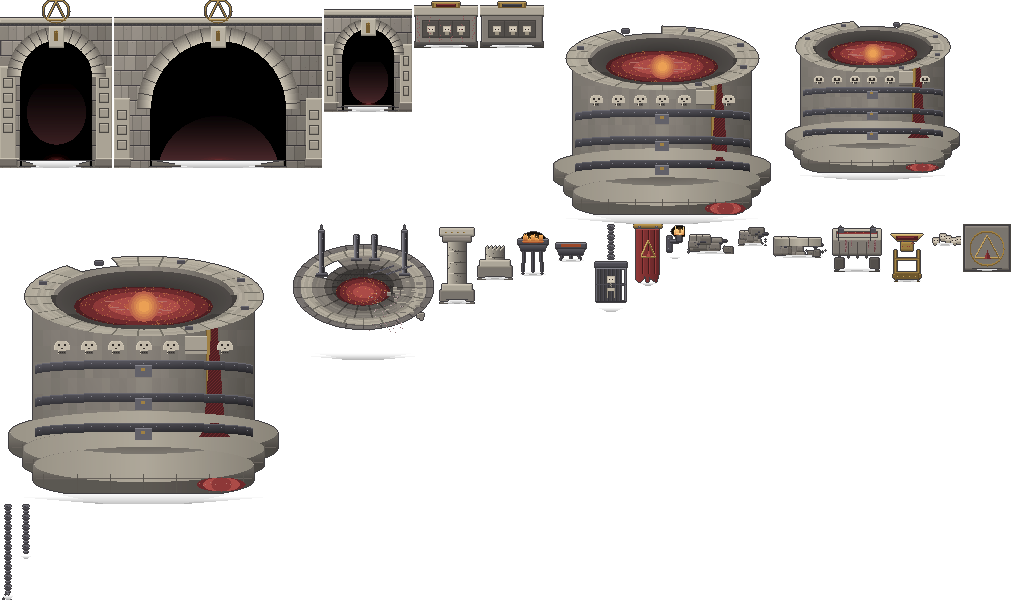
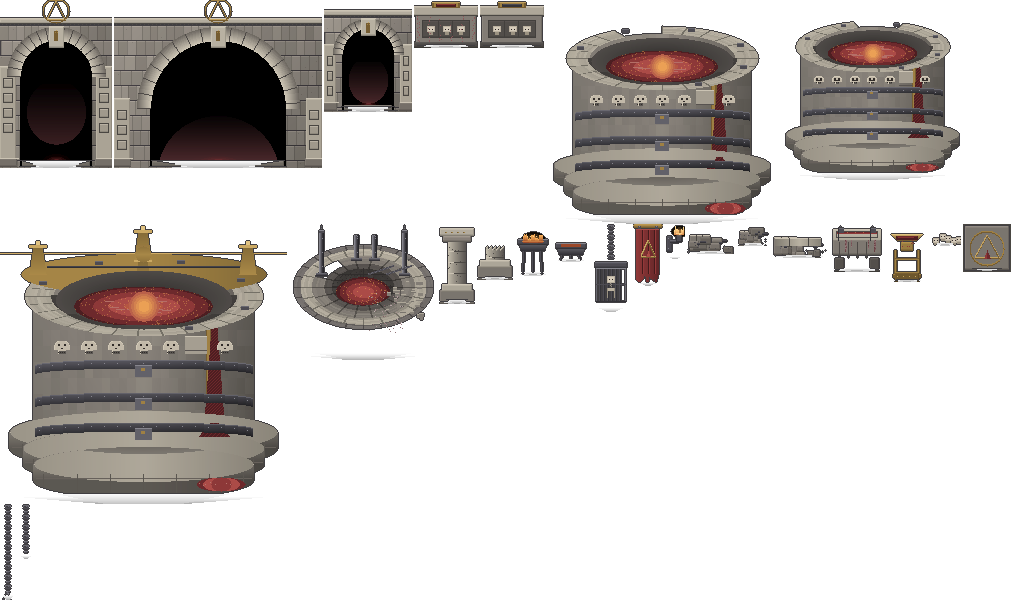
feat(level5): the court's basin gets a crest, so it is the level's monument
The court's basin, the forecourt's and the arena's were the same drawing at
different scales, and the review read them as three copies of one prop rather
than as one order with three vessels. Worse, the court's is the level's name and
it had to be the thing the eye finds from the spawn station, which is a long way
off and behind a colonnade: a vessel at that distance is a blob.

The grand vessel now carries a bronze crest: a band resting on the rim's own
ellipse, four tapered horns on the cardinals with flared tops and finials, and a
chain between the two side horns carrying the order's disc. A vessel with four
uprights and a chain between them is a silhouette, and a silhouette reads at
distance; the two lesser basins keep the plain rim.

Drawn in the space the overhang leaves empty, so nothing in the vessel's own
construction is covered. Nothing else in the kit moved: 27 tiles, 25 props, the
small basin byte-identical.

Changed region(s): [[0.0, 0.36, 0.2754, 0.48]]

diff --git a/tools/level5/art_crucible.py b/tools/level5/art_crucible.py
@@ -864,7 +864,8 @@ def _ellipse_span(cx: float, cy: float, rx: float, ry: float, y: int) -> tuple:
     return cx - half, cx + half
 
 
-def prop_crucible(w: int = 232, h: int = 224, scale: float = 1.0) -> Image.Image:
+def prop_crucible(w: int = 232, h: int = 224, scale: float = 1.0,
+                  crest: bool = False) -> Image.Image:
     """The Blood Court's crucible: a raised cauldron on a stepped plinth.
 
     The first version was drawn from above - concentric rings of cut stone round an
@@ -1107,6 +1108,60 @@ def prop_crucible(w: int = 232, h: int = 224, scale: float = 1.0) -> Image.Image
             d = math.hypot(dx, dy)
             if 0.70 < d <= 0.78:
                 px(img, x, y, shade(WARM_D, 0.70 - 0.2 * dy))
+
+    # --- the crest: four bronze horns and a hanging chain ------------------
+    # The grand basin is the level's monument and it has to be the thing the eye
+    # finds from the spawn station, which is a long way off and behind a
+    # colonnade. A vessel at that distance is a blob; a vessel with four upright
+    # horns and a chain between them is a silhouette, and a silhouette is what
+    # reads. It is also what separates the court's basin from the forecourt's and
+    # the arena's, which were the same drawing at a smaller scale and were read as
+    # three copies of one prop rather than as one order with three vessels.
+    #
+    # Drawn above the rim, in the space the overhang leaves empty, so nothing in the
+    # vessel's own construction is covered: the horns rise from a bronze band that
+    # sits just outside the rim's own ellipse.
+    if crest:
+        band_y = rim_y - RY * 0.55
+        band_rx, band_ry = RX * 1.03, RY * 0.52
+        for y in range(int(band_y - band_ry), int(band_y + band_ry) + 1):
+            x0, x1 = span(cx, band_y, band_rx, band_ry, y)
+            if x1 <= x0:
+                continue
+            for x in range(int(x0), int(x1) + 1):
+                dx = (x - cx) / max(1.0, band_rx)
+                if math.hypot(dx, (y - band_y) / max(1.0, band_ry)) <= 1.0:
+                    px(img, x, y, shade(BRASS_M, 1.06 - 0.30 * max(0.0, dx)))
+        hline(img, 0, int(band_y - band_ry), w, shade(BRASS_L, 1.10))
+        # four upright horns on the cardinals, each a tapered plate with a flared top
+        horn_h = int(24 * scale)
+        horn_w = max(5, int(8 * scale))
+        for angle in (math.pi / 2, math.pi, 3 * math.pi / 2, 0.0):
+            hx = int(cx + math.cos(angle) * band_rx * 0.86)
+            base_y = int(band_y + math.sin(angle) * band_ry * 0.72)
+            for dy in range(horn_h):
+                t = dy / max(1.0, float(horn_h))
+                half = max(2, int(horn_w * (0.55 + 0.45 * (1.0 - t))))
+                top_y = base_y - dy
+                if 0 <= top_y < h:
+                    rect(img, hx - half, top_y, half * 2, 1,
+                         shade(BRASS_M, 1.10 - 0.34 * t))
+            if 0 <= base_y - horn_h < h:
+                rect(img, hx - horn_w, base_y - horn_h, horn_w * 2, max(2, int(3 * scale)),
+                     shade(BRASS_L, 1.06))
+                rect(img, hx - max(2, int(2 * scale)), base_y - horn_h - max(2, int(4 * scale)),
+                     max(4, int(4 * scale)), max(2, int(4 * scale)), BRASS_HI)
+        # a chain between the two side horns, with the order's own disc
+        chain_y = int(band_y - band_ry * 0.35)
+        for x in range(int(cx - band_rx * 0.78), int(cx + band_rx * 0.78) + 1):
+            px(img, x, chain_y, shade(IRON_M, 0.86))
+            px(img, x, chain_y + 1, shade(IRON_D, 0.90))
+        disc_r = max(4, int(7 * scale))
+        for dy in range(-disc_r, disc_r + 1):
+            for dx in range(-disc_r, disc_r + 1):
+                if math.hypot(dx, dy) <= disc_r:
+                    px(img, int(cx + dx), chain_y - int(10 * scale) + dy,
+                       shade(BRASS_M, 1.08 - 0.22 * abs(dy) / max(1.0, disc_r)))
 
     # --- the opening, the wall inside it, and the blood --------------------
     iy = rim_y + 3 * scale
@@ -1803,7 +1858,7 @@ def build_props() -> dict:
         "altar_dry": (lambda: prop_altar(32, blood=False), 3, 0),
         "crucible": (lambda: prop_crucible(), 4, 0),
         "crucible_small": (lambda: prop_crucible(232, 226, scale=0.80), 4, 0),
-        "crucible_grand": (lambda: prop_crucible(232, 226, scale=1.24), 4, 0),
+        "crucible_grand": (lambda: prop_crucible(232, 226, scale=1.24, crest=True), 4, 0),
         "apparatus": (lambda: prop_throne_apparatus(33), 5, 0),
         "column": (lambda: prop_column(41), 6, 0),
         "column_broken": (lambda: prop_column(42, broken=True), 7, 0),
